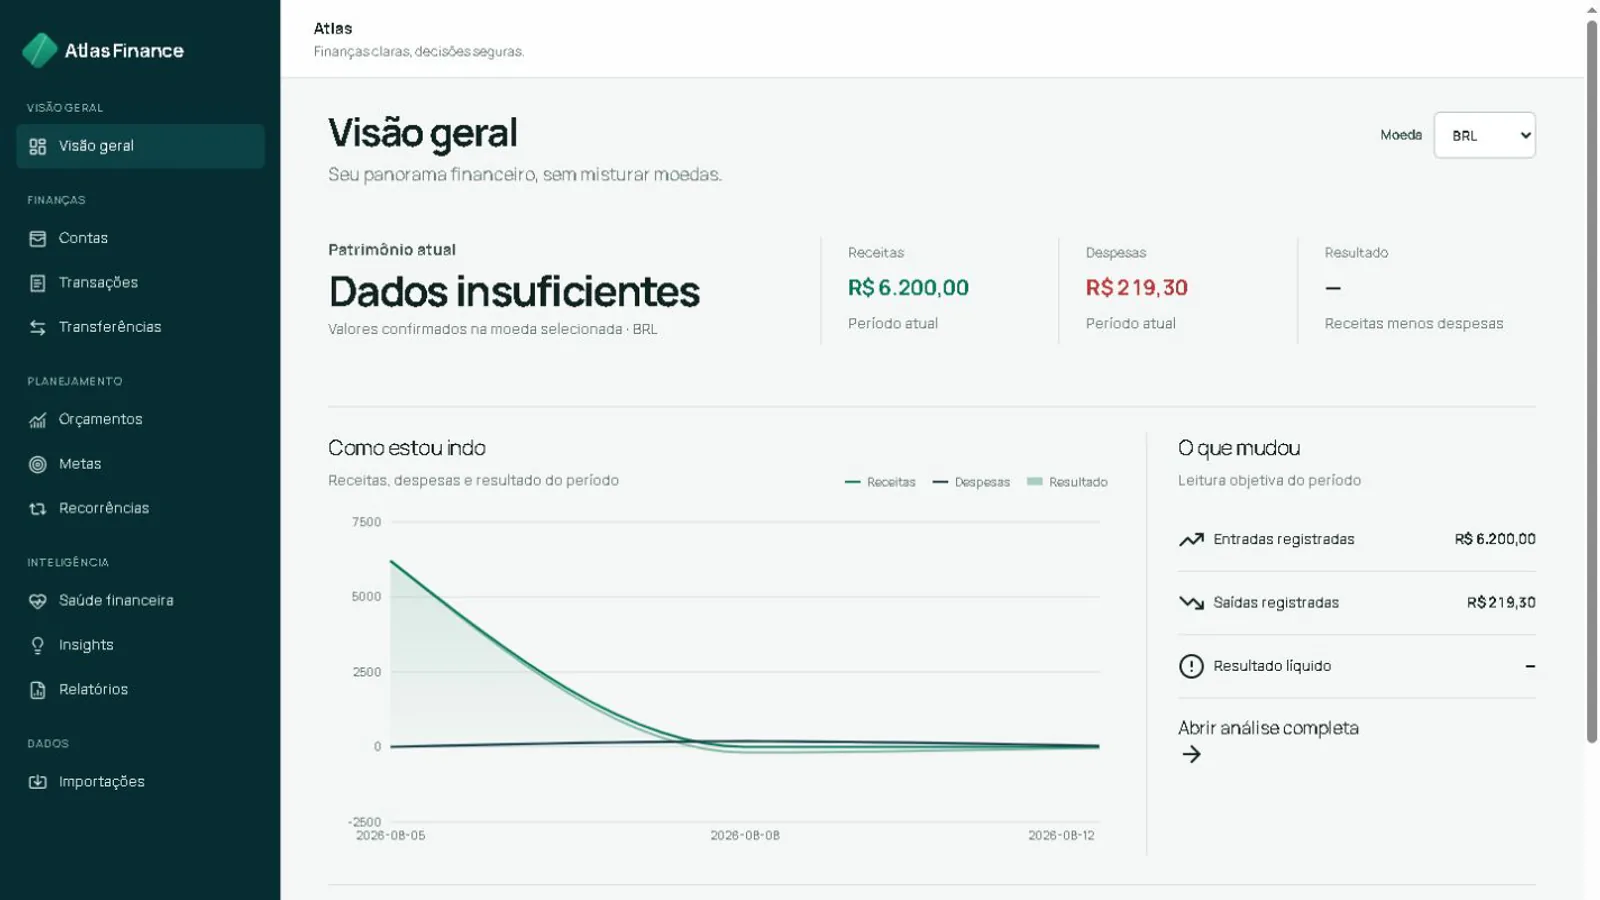
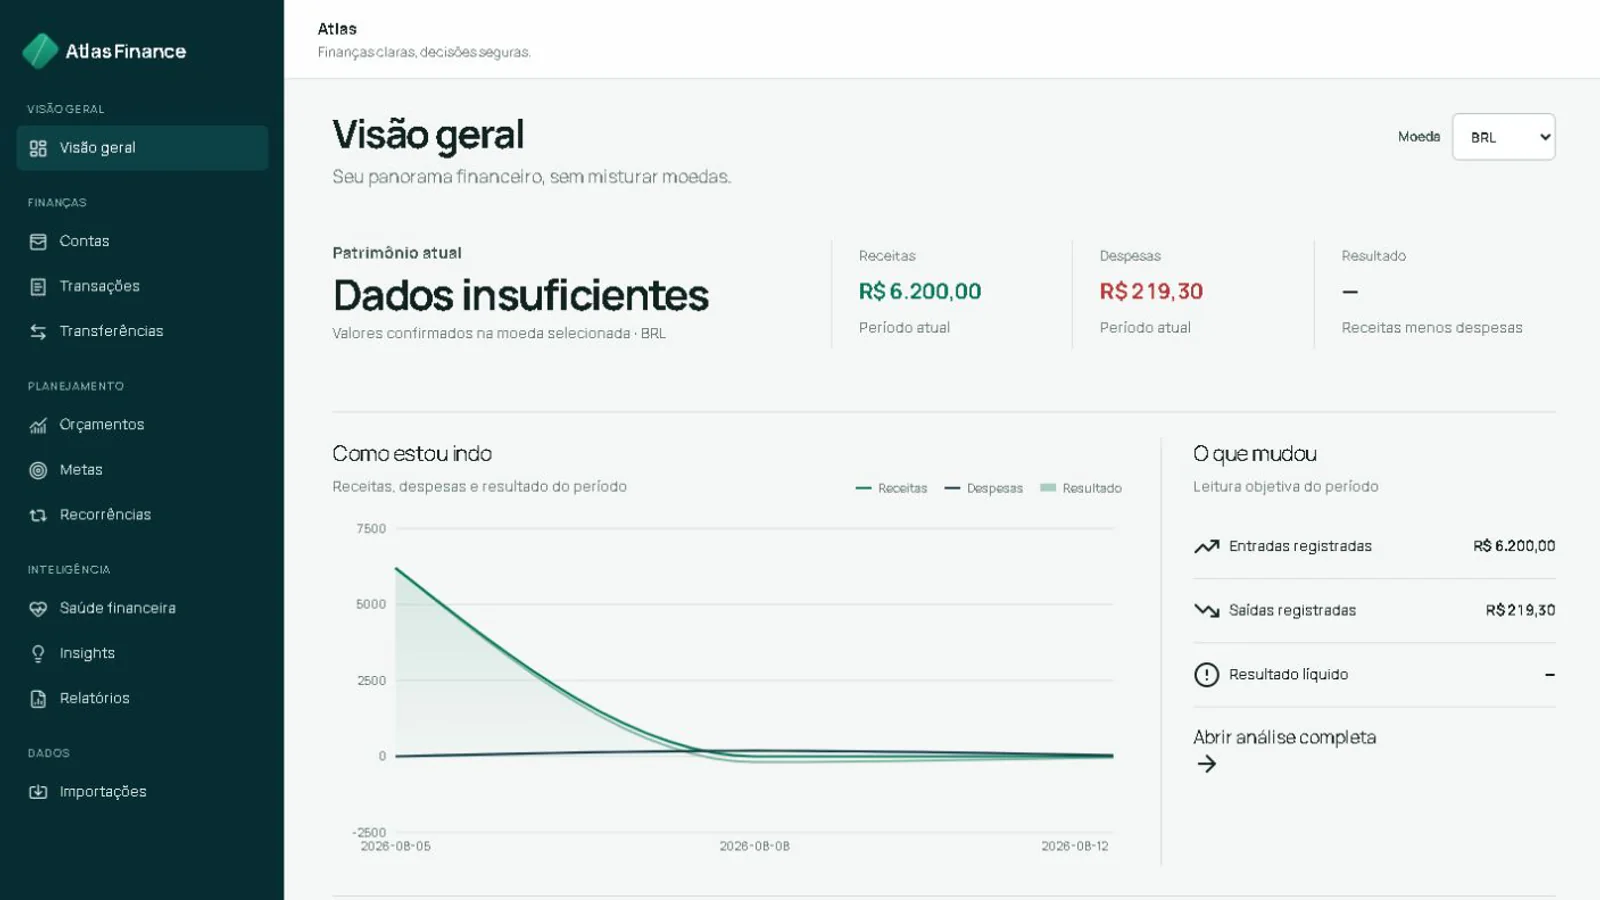
fix: remove browser chrome from portfolio imagery

diff --git a/.superpowers/sdd/portfolio-proof/task-2-report.md b/.superpowers/sdd/portfolio-proof/task-2-report.md
@@ -38,3 +38,45 @@ All three files are valid, non-empty WebP images at exactly 1600×900 and are we
 
 - Atlas required a top-aligned 16:9 crop because the repository screenshot is 1425×891; the crop retains the complete navigation, KPI row, and primary chart while omitting only lower-page content.
 - The full test suite’s sole failure is the pre-existing/separate missing portfolio attribution assertion noted above; the production build and typecheck themselves pass.
+
+## Review fix — round 1
+
+Reviewer finding P1 was confirmed: the repository/live source captures included a narrow user-agent scrollbar on the right edge. All three assets were regenerated from their original PNG sources, not from the previously encoded WebPs. The rightmost 18 source pixels containing the scrollbar were removed before a fresh top-aligned 1600×900 resize and quality-84 WebP encode. No product UI was painted over, generated, recolored, or composited.
+
+### Corrected asset verification
+
+| Asset | Dimensions | File size | SHA-256 | Original-detail inspection |
+| --- | ---: | ---: | --- | --- |
[3 lines of base64/hex data omitted]
+
+All corrected files are non-empty, exactly 1600×900, valid WebP, and below 300 KB. Each was opened with original-detail inspection after the final encode.
+
+### Verification commands and output
+
+Command:
+
+```powershell
+node -e "const sharp=require('sharp'),fs=require('fs'),crypto=require('crypto'),path=require('path'); (async()=>{for(const n of ['atlas-finance.webp','ecoeduca.webp','urbanfarm.webp']){const p=path.join('public','projects',n),b=fs.readFileSync(p),m=await sharp(b).metadata(); console.log(n+': '+m.width+'x'+m.height+', '+b.length+' bytes, '+m.format+', sha256='+crypto.createHash('sha256').update(b).digest('hex'))}})()"
+```
+
+Output:
+
+```text
+atlas-finance.webp: 1600x900, 46574 bytes, webp, sha256=710eb37f0be71ca255c9d0fc8045273f380de43dfafabb3b23ae3af4d8c4ae89
+ecoeduca.webp: 1600x900, 58604 bytes, webp, sha256=2bf4b359b0b34264157173494f18185cf4096310a116a959a9bf2af4909d3fc0
+urbanfarm.webp: 1600x900, 31818 bytes, webp, sha256=219a6ad235dacca5da3db4ae7f875c81aa1bde9e9892389fa577336f63b9583b
+```
+
+Commands and results:
+
+- `npm run typecheck` — pass.
+- `npm test` — production build and TypeScript pass; static generation completes. Test runner: 2 pass, 1 fail. The unchanged failure is `renders truthful portfolio proof in the production HTML` at the separate attribution assertion (`the portfolio attribution should render`); no image assertion fails.
+
+### Fix self-review
+
+- The scrollbar columns are absent from all three final images.
+- Product provenance and visible UI remain unchanged.
+- No browser chrome, loading/login state, credentials, or private data are visible.
+- The correction remains scoped to the three image binaries plus this appended verification record.
